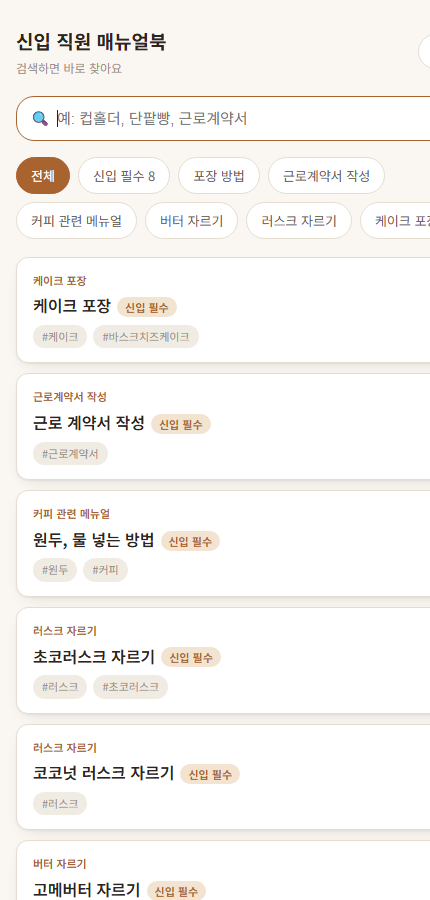
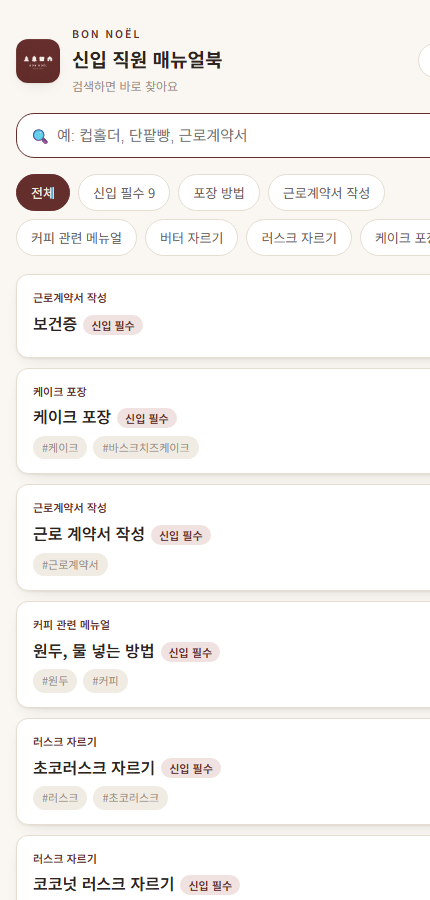
본노엘 v1 갱신: 로고 적용·브랜드 색 통일, 확인 현황 매장별 필터, 새 아이콘, 첫화면 스크린샷 교체 (2조 손성필)

Changed region(s): [[0.0302, 0.0311, 1.0, 1.0], [0.6047, 0.1867, 1.0, 0.3111]]

diff --git a/02_실전캠프_Day2_실습제출/2조_손성필_본노엘/v1/프로젝트/index.html b/02_실전캠프_Day2_실습제출/2조_손성필_본노엘/v1/프로젝트/index.html
@@ -6,7 +6,7 @@
 <title>신입 직원 매뉴얼북</title>
 <meta name="robots" content="noindex, nofollow">
 <link rel="manifest" href="manifest.json">
-<meta name="theme-color" content="#a8632f">
+<meta name="theme-color" content="#642e2c">
 <link rel="icon" href="icon-192.png">
 <link rel="apple-touch-icon" href="icon-192.png">
 <meta name="apple-mobile-web-app-capable" content="yes">
@@ -24,9 +24,9 @@
     --ink-faint:#9a9086;
     --line:#e5ddd0;
     --line-strong:#d3c7b4;
-    --accent:#a8632f;
-    --accent-soft:#f3e3d1;
-    --accent-ink:#ffffff;
+    --accent:#642e2c;
+    --accent-soft:#f0e2e0;
+    --accent-ink:#f7efe4;
     --danger:#b5432c;
     --danger-soft:#f6dfd8;
     --ok:#2f7a4f;
@@ -47,9 +47,9 @@
       --ink-faint:#847a6e;
       --line:#3a3226;
       --line-strong:#4a4030;
-      --accent:#e0a066;
-      --accent-soft:#3a2c1c;
-      --accent-ink:#241a0e;
+      --accent:#d9a39e;
+      --accent-soft:#3b2523;
+      --accent-ink:#2a1412;
       --danger:#e59078;
       --danger-soft:#3a241d;
       --ok:#7bc79a;
@@ -75,6 +75,11 @@
   .head .sub{ font-size:12px; color:var(--ink-faint); margin-top:2px; }
   .head-link{ font-size:13px; color:var(--ink-soft); text-decoration:none; border:1px solid var(--line); padding:7px 12px; border-radius:999px; background:var(--surface); cursor:pointer; white-space:nowrap; }
   .head-link:hover{ border-color:var(--line-strong); }
+  .brand{ display:flex; align-items:center; gap:12px; min-width:0; }
+  .brand img{ width:44px; height:44px; border-radius:12px; flex-shrink:0; box-shadow:var(--shadow); }
+  .brand .kicker{ font-size:10.5px; letter-spacing:.18em; text-transform:uppercase; font-weight:600; color:var(--accent); margin-bottom:1px; }
+  .center-card .logo{ width:76px; height:76px; border-radius:20px; display:block; margin:0 auto 16px; box-shadow:var(--shadow); }
+  .foot{ text-align:center; margin-top:44px; color:var(--ink-faint); font-size:11px; letter-spacing:.16em; }
 
   /* search */
   .search-box{ position:relative; margin-bottom:16px; }
@@ -309,6 +314,7 @@
     adminTab: 'manuals',  // manuals | categories | branches | staff | progress | status
     editingManual: null,  // 편집 중인 매뉴얼 draft 객체 (신규 작성 포함)
     statusManualId: null,
+    statusBranchId: null,  // 확인 현황 탭에서 고른 매장 (null = 전체)
     progressBranchId: null // 진행률 탭에서 고른 매장 (null = 전체)
   };
 
@@ -443,7 +449,7 @@
     return (
       backHtml +
       '<div class="head">' +
-        '<div><h1>신입 직원 매뉴얼북</h1><div class="sub">' + esc(subtitle || '검색하면 바로 찾아요') + '</div></div>' +
+        '<div class="brand"><img src="logo.png" alt="Bon Noël"><div><div class="kicker">Bon Noël</div><h1>신입 직원 매뉴얼북</h1><div class="sub">' + esc(subtitle || '검색하면 바로 찾아요') + '</div></div></div>' +
         '<button class="head-link" id="btnAdminLink">' + esc(linkLabel) + '</button>' +
       '</div>'
     );
@@ -463,7 +469,8 @@
       renderHeader() +
       '<div class="search-box"><span class="icon">&#128269;</span><input id="searchInput" type="text" placeholder="예: 컵홀더, 단팥빵, 근로계약서" value="' + esc(state.query) + '"></div>' +
       '<div class="chips">' + chips.join('') + '</div>' +
-      '<div class="manual-list">' + manualListHtml(visibleManuals()) + '</div>';
+      '<div class="manual-list">' + manualListHtml(visibleManuals()) + '</div>' +
+      '<div class="foot">BON NOËL · SINCE 2014</div>';
 
     bindHeaderEvents();
 
@@ -661,6 +668,7 @@
   function renderAdminLogin(){
     app.innerHTML =
       '<div class="center-card">' +
+        '<img class="logo" src="logo.png" alt="Bon Noël">' +
         '<h2>관리자 화면</h2>' +
         '<p>비밀번호를 입력해주세요.</p>' +
         '<input id="pinInput" type="password" inputmode="numeric" maxlength="12" placeholder="••••">' +
@@ -704,7 +712,7 @@
     }).join('');
 
     app.innerHTML =
-      '<div class="head"><div><h1>관리자 화면</h1><div class="sub">매뉴얼북 관리</div></div>' +
+      '<div class="head"><div class="brand"><img src="logo.png" alt="Bon Noël"><div><div class="kicker">Bon Noël</div><h1>관리자 화면</h1><div class="sub">매뉴얼북 관리</div></div></div>' +
         '<button class="head-link" id="btnLogout">직원 화면으로</button></div>' +
       '<div class="admin-tabs">' + tabsHtml + '</div>' +
       '<div id="adminBody"></div>';
@@ -1248,15 +1256,27 @@
       return '<option value="' + esc(m.id) + '"' + (state.statusManualId === m.id ? ' selected' : '') + '>' + esc(m.title) + '</option>';
     }).join('');
 
+    var chips = ['<button class="chip' + (!state.statusBranchId ? ' active' : '') + '" data-branch="">전체</button>'];
+    state.branches.forEach(function(b){
+      chips.push('<button class="chip' + (state.statusBranchId === b.id ? ' active' : '') + '" data-branch="' + esc(b.id) + '">' + esc(b.name) + '</button>');
+    });
+
     body.innerHTML =
       '<div class="section-head"><h3>매뉴얼별 확인 현황</h3></div>' +
       '<div class="field"><select id="statusSelect"><option value="">매뉴얼을 선택하세요</option>' + options + '</select></div>' +
+      '<div class="chips">' + chips.join('') + '</div>' +
       '<div id="statusResult"></div>';
 
     var sel = document.getElementById('statusSelect');
     sel.addEventListener('change', function(){
       state.statusManualId = sel.value || null;
       loadStatus();
+    });
+    body.querySelectorAll('[data-branch]').forEach(function(el){
+      el.addEventListener('click', function(){
+        state.statusBranchId = el.getAttribute('data-branch') || null;
+        render();
+      });
     });
     if (state.statusManualId) loadStatus();
 
@@ -1276,14 +1296,17 @@
         var staffNames = {};
         state.staff.forEach(function(s){ staffNames[s.name] = true; });
 
-        var combined = state.staff.map(function(s){
+        var staffList = state.staff.filter(function(s){ return !state.statusBranchId || s.branch_id === state.statusBranchId; });
+        var combined = staffList.map(function(s){
           var date = byStaffId[s.id] || byName[s.name] || null;
           return { name: s.name, branch: branchName(s.branch_id), ok: !!date, date: date };
         });
-        // 명단에 없는 이름으로 남은 옛 기록도 보여 줌
-        Object.keys(byName).forEach(function(name){
-          if (!staffNames[name]) combined.push({ name: name, branch: '옛 기록', ok: true, date: byName[name] });
-        });
+        // 명단에 없는 이름으로 남은 옛 기록도 보여 줌 (전체 보기일 때만)
+        if (!state.statusBranchId){
+          Object.keys(byName).forEach(function(name){
+            if (!staffNames[name]) combined.push({ name: name, branch: '옛 기록', ok: true, date: byName[name] });
+          });
+        }
         combined.sort(function(a,b){
           if (a.branch !== b.branch) return a.branch.localeCompare(b.branch);
           return a.name.localeCompare(b.name);
@@ -1297,7 +1320,7 @@
 
         result.innerHTML = combined.length ? (
           '<table class="confirm-status-table"><thead><tr><th>매장</th><th>이름</th><th>상태</th><th>확인 일시</th></tr></thead><tbody>' + rowsHtml + '</tbody></table>'
-        ) : '<div class="empty">직원 명단을 먼저 등록해주세요.</div>';
+        ) : '<div class="empty">' + (state.statusBranchId ? '이 매장에 등록된 직원이 없어요.' : '직원 명단을 먼저 등록해주세요.') + '</div>';
       });
     }
   }
